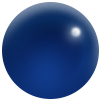
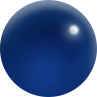
Basic functionality of game complete. It can run a single round game.

Changed region(s): [[0.0, 0.0, 1.0, 1.0], [0.7113, 0.2474, 0.8351, 0.3711], [0.433, 0.0619, 0.4948, 0.0928]]

diff --git a/src/components/MarbleTracking.jsx b/src/components/MarbleTracking.jsx
@@ -1,11 +1,16 @@
 import {
   MManswer,
+  activeGame,
   activeRow,
   currentGameHistory,
   numberOfColumns,
-  numberOfRows,
 } from "../data/atoms";
-import { useRecoilState, useRecoilValue } from "recoil";
+import {
+  useRecoilState,
+  useRecoilValue,
+  useResetRecoilState,
+  useSetRecoilState,
+} from "recoil";
 
 import React from "react";
 import styled from "styled-components";
@@ -41,9 +46,9 @@ const SubmitAnswerButton = styled.button`
   border-radius: 25px;
   font-size: 40px;
   cursor: pointer;
-  background-color: var(--mmBrightWhite);
+  background-color: transparent;
   border: 1px solid var(--mmWhite);
-  color: var(--mmDarkRed);
+  color: var(--mmBrightWhite);
   :hover {
     border: 1px solid var(--mmDarkRed);
     background-color: var(--mmDarkRed);
@@ -62,14 +67,15 @@ const RowResult = styled.div`
 `;
 
 export default function MarbleTracking() {
-  const rows = useRecoilValue(numberOfRows);
   const cols = useRecoilValue(numberOfColumns);
   const [currentRow, setCurrentRow] = useRecoilState(activeRow);
-  const numberofAttempts = new Array(rows);
+  const resetRowNumber = useResetRecoilState(activeRow);
+  const setIsGameActive = useSetRecoilState(activeGame);
   const answer = useRecoilValue(MManswer);
   const [gameHistory, setGameHistory] = useRecoilState(currentGameHistory);
 
   let correctCount = 0;
+  let wrongSpaceCount = 0;
 
   function handleAnswerKeys(correctCount, currentGuess) {
     setGameHistory([
@@ -77,33 +83,70 @@ export default function MarbleTracking() {
       {
         answer: currentGuess,
         rightSpace: correctCount,
-        wrongSpace: 0,
+        wrongSpace: wrongSpaceCount,
       },
     ]);
   }
 
   function submitAnswer() {
     const currentGuess = [];
+    let answerMismatch = [];
+    let guessMismatch = [];
     //check for total answer
     for (let i = 0; i < cols; i++) {
+      const item = document.getElementById(`r${currentRow}c${i}`).classList[1];
       //push all entries into a temp array
-      currentGuess.push(
-        document.getElementById(`r${currentRow}c${i}`).classList[1]
-      );
+      currentGuess.push(item);
 
       //find absolute matches
-      if (
-        document.getElementById(`r${currentRow}c${i}`).classList[1] ===
-        answer[i]
-      ) {
+      if (item === answer[i]) {
         //increase the amount  of matches by 1
         correctCount++;
+      } else {
+        answerMismatch.push(answer[i]);
+        guessMismatch.push(item);
       }
     }
+    console.log(answer);
+    console.log("-----");
+    console.log("Guess is: ");
+    console.log(guessMismatch);
+
+    console.log("Answer is: ");
+    console.log(answerMismatch);
+
+    ///compare arrays for mismatches
+    for (let i = 0; i < guessMismatch.length; i++) {
+      for (let j = 0; j < guessMismatch.length; j++) {
+        console.log(
+          "comparing " + guessMismatch[i] + " with " + answerMismatch[j]
+        );
+        if (guessMismatch[i] === answerMismatch[j]) {
+          console.log(
+            "matched " +
+              guessMismatch[i] +
+              " and deleting " +
+              answerMismatch[j] +
+              " from answer."
+          );
+          answerMismatch.splice(j, 1);
+          console.log("Answer remains as: ");
+          console.log(answerMismatch);
+          wrongSpaceCount++;
+        }
+      }
+    }
+
     //detect a win
     if (correctCount === cols) {
-      console.log("you Win!");
+      const buttonSwitched = document.querySelector("#startButton");
+      buttonSwitched.style.backgroundColor = "var(--mmWhite)";
+      buttonSwitched.style.color = "var(--mmDarkRed)";
+      buttonSwitched.innerText = "Start Game";
+      resetRowNumber();
+      setIsGameActive(false);
     }
+
     // generateDefaultRow(cols, currentRow);
 
     //increase the row Number to move up the board
@@ -111,11 +154,8 @@ export default function MarbleTracking() {
 
     //send info to handleAnswerKeys to display
     handleAnswerKeys(correctCount, currentGuess);
-
-    console.log("determine correct stars");
   }
 
-  console.log(numberofAttempts);
   return (
     <ResultContainer>
       <SubmitAnswerButton id="submitButton" onClick={submitAnswer}>

diff --git a/src/App.js b/src/App.js
@@ -55,6 +55,7 @@ const StartButton = styled.button`
 export default function App() {
   const [isGameActive, setIsGameActive] = useRecoilState(activeGame);
   const [activeRowNumber, setActiveRowNumber] = useRecoilState(activeRow);
+
   const resetRowNumber = useResetRecoilState(activeRow);
   const setAnswer = useSetRecoilState(MManswer);
   const cols = useRecoilValue(numberOfColumns);
@@ -65,7 +66,7 @@ export default function App() {
   // const [guessRow, setGuessRow] = useRecoilState(currentGuessRowState);
 
   useEffect(() => {
-    if (activeRowNumber > 0) {
+    if (activeRowNumber > 0 && isGameActive) {
       for (let i = 0; i < cols; i++) {
         // console.log("hey " + i);
         document
@@ -75,10 +76,10 @@ export default function App() {
           .getElementById(`r${activeRowNumber}c${i}`)
           .classList.add("marble");
 
-        console.log(`r${activeRowNumber}c${i}`);
+        // console.log(`r${activeRowNumber}c${i}`);
       }
     }
-  }, [activeRowNumber, cols]);
+  }, [activeRowNumber, cols, isGameActive]);
 
   //generates a random answer for this round based on the column length
   function GenerateAnswer() {
@@ -91,10 +92,10 @@ export default function App() {
 
   function resetRowBackgrounds() {
     for (let i = 1; i < rows; i++) {
-      console.log(`row ${i}`);
+      // console.log(`row ${i}`);
 
       for (let j = 0; j < cols; j++) {
-        console.log(`col ${j}`);
+        // console.log(`col ${j}`);
         document
           .querySelector(`#r${i}c${j}`)
           .classList.replace(
@@ -126,6 +127,7 @@ export default function App() {
     setActiveRowNumber(1);
     //removes the customization bar
     document.querySelector("#infobar").style.display = "none";
+    //shows the submit button
     document.querySelector("#submitButton").style.display = "flex";
 
     // generateDefaultRow(cols, activeRowNumber);
@@ -158,15 +160,16 @@ export default function App() {
         </div>
       </FullGameContainer>
       <StartButton
+        id="startButton"
         onClick={(e) => {
           if (isGameActive) {
             endGame();
-            console.log("Stop the timer");
-            console.log("Show the answer");
+            setIsGameActive(false);
+            // console.log("Stop the timer");
+            // console.log("Show the answer");
             e.target.style.backgroundColor = "var(--mmWhite)";
             e.target.style.color = "var(--mmDarkRed)";
             e.target.innerText = "Start Game";
-            setIsGameActive(!isGameActive);
           } else {
             resetRowBackgrounds();
             StartNewGame(e);

diff --git a/src/utils/globalFunctions.jsx b/src/utils/globalFunctions.jsx
@@ -1,9 +1,9 @@
 export function generateDefaultRow(cols, activeRowNumber) {
-  console.log("The active row in default row is : " + activeRowNumber);
+  // console.log("The active row in default row is : " + activeRowNumber);
   for (let i = 0; i < cols; i++) {
     document
       .getElementById(`r${activeRowNumber}c${i}`)
       .classList.replace("black", `yellow`);
-    console.log(`r${activeRowNumber}c${i}`);
+    // console.log(`r${activeRowNumber}c${i}`);
   }
 }

diff --git a/src/components/AnswerRow.jsx b/src/components/AnswerRow.jsx
@@ -16,7 +16,7 @@ export default function AnswerRow() {
               <button
                 key={`${answer[answer.indexOf(row)]}-${Math.random() * 15000}`}
                 id={`${answer[answer.indexOf(row)]}`}
-                className={`hole ${answer[answer.indexOf(row)]}`}
+                className={`hole ${answer[answer.indexOf(row)]} marble`}
               ></button>
             );
           })}

diff --git a/src/index.css b/src/index.css
@@ -106,8 +106,8 @@ code {
   filter: drop-shadow(0 3mm 2mm #101010);
 }
 .marble {
-  background-size: 53px;
-  background-position: -2px -1px;
+  background-size: 52px;
+  background-position: -1px -1px;
   border: none;
 }
 
